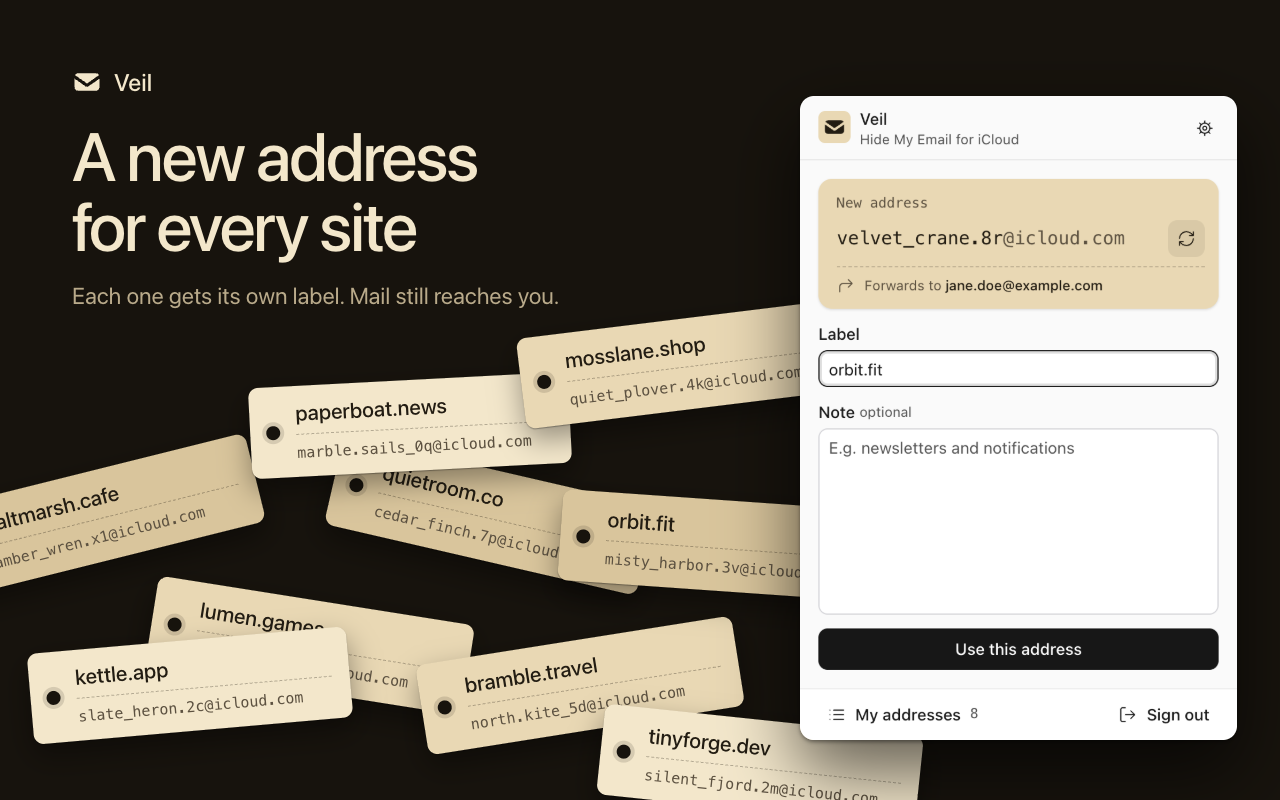
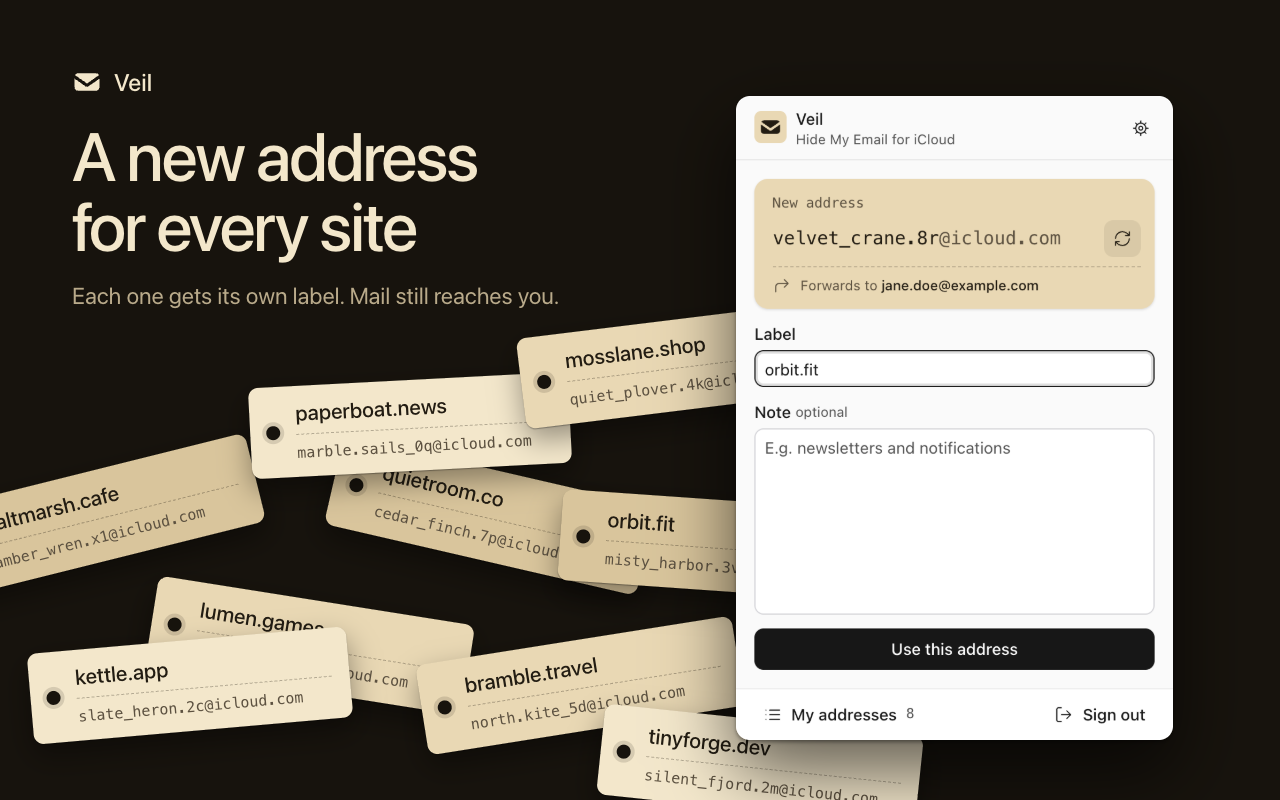
Store frame 1: move the popup left for more depth over the labels

Changed region(s): [[0.5312, 0.0938, 0.9688, 1.0], [0.7188, 0.7812, 0.8438, 0.8438]]

diff --git a/store/artwork/src/en/screenshot-1.html b/store/artwork/src/en/screenshot-1.html
@@ -11,6 +11,6 @@
 <div class="tag lo" style="left: -60px; top: 470px; transform: rotate(-14deg); "><b>saltmarsh.cafe</b><span>amber_wren.x1@icloud.com</span></div><div class="tag " style="left: 150px; top: 600px; transform: rotate(9deg); "><b>lumen.games</b><span>pale_otter.9m@icloud.com</span></div><div class="tag hi" style="left: 30px; top: 640px; transform: rotate(-5deg); "><b>kettle.app</b><span>slate_heron.2c@icloud.com</span></div><div class="tag lo" style="left: 330px; top: 470px; transform: rotate(13deg); "><b>quietroom.co</b><span>cedar_finch.7p@icloud.com</span></div>
 <div class="tag " style="left: 420px; top: 640px; transform: rotate(-9deg); "><b>bramble.travel</b><span>north.kite_5d@icloud.com</span></div><div class="tag hi" style="left: 600px; top: 720px; transform: rotate(6deg); "><b>tinyforge.dev</b><span>silent_fjord.2m@icloud.com</span></div><div class="tag hi" style="left: 250px; top: 380px; transform: rotate(-3deg); "><b>paperboat.news</b><span>marble.sails_0q@icloud.com</span></div><div class="tag lo" style="left: 560px; top: 500px; transform: rotate(4deg); "><b>orbit.fit</b><span>misty_harbor.3v@icloud.com</span></div>
 <div class="tag " style="left: 520px; top: 318px; transform: rotate(-7deg); width: 340px"><b>mosslane.shop</b><span>quiet_plover.4k@icloud.com</span></div>
-<img class="ui" src="../../../raw/en/popup-generate-light.png" width="437" height="644" style="left: 800px; top: 96px; border-radius: 14px; box-shadow: 0 2px 4px rgba(0,0,0,.4), 0 30px 70px rgba(0,0,0,.6)" alt="">
+<img class="ui" src="../../../raw/en/popup-generate-light.png" width="437" height="644" style="left: 736px; top: 96px; border-radius: 14px; box-shadow: 0 2px 4px rgba(0,0,0,.4), 0 30px 70px rgba(0,0,0,.6)" alt="">
 </body>
 </html>

diff --git a/store/artwork/src/ru/screenshot-1.html b/store/artwork/src/ru/screenshot-1.html
@@ -11,6 +11,6 @@
 <div class="tag lo" style="left: -60px; top: 470px; transform: rotate(-14deg); "><b>saltmarsh.cafe</b><span>amber_wren.x1@icloud.com</span></div><div class="tag " style="left: 150px; top: 600px; transform: rotate(9deg); "><b>lumen.games</b><span>pale_otter.9m@icloud.com</span></div><div class="tag hi" style="left: 30px; top: 640px; transform: rotate(-5deg); "><b>kettle.app</b><span>slate_heron.2c@icloud.com</span></div><div class="tag lo" style="left: 330px; top: 470px; transform: rotate(13deg); "><b>quietroom.co</b><span>cedar_finch.7p@icloud.com</span></div>
 <div class="tag " style="left: 420px; top: 640px; transform: rotate(-9deg); "><b>bramble.travel</b><span>north.kite_5d@icloud.com</span></div><div class="tag hi" style="left: 600px; top: 720px; transform: rotate(6deg); "><b>tinyforge.dev</b><span>silent_fjord.2m@icloud.com</span></div><div class="tag hi" style="left: 250px; top: 380px; transform: rotate(-3deg); "><b>paperboat.news</b><span>marble.sails_0q@icloud.com</span></div><div class="tag lo" style="left: 560px; top: 500px; transform: rotate(4deg); "><b>orbit.fit</b><span>misty_harbor.3v@icloud.com</span></div>
 <div class="tag " style="left: 520px; top: 318px; transform: rotate(-7deg); width: 340px"><b>mosslane.shop</b><span>quiet_plover.4k@icloud.com</span></div>
-<img class="ui" src="../../../raw/ru/popup-generate-light.png" width="437" height="644" style="left: 800px; top: 96px; border-radius: 14px; box-shadow: 0 2px 4px rgba(0,0,0,.4), 0 30px 70px rgba(0,0,0,.6)" alt="">
+<img class="ui" src="../../../raw/ru/popup-generate-light.png" width="437" height="644" style="left: 736px; top: 96px; border-radius: 14px; box-shadow: 0 2px 4px rgba(0,0,0,.4), 0 30px 70px rgba(0,0,0,.6)" alt="">
 </body>
 </html>
